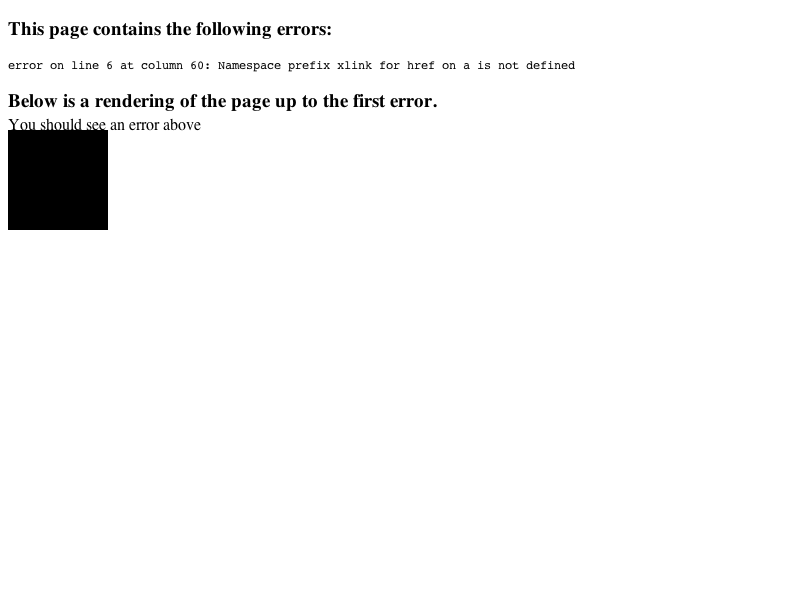
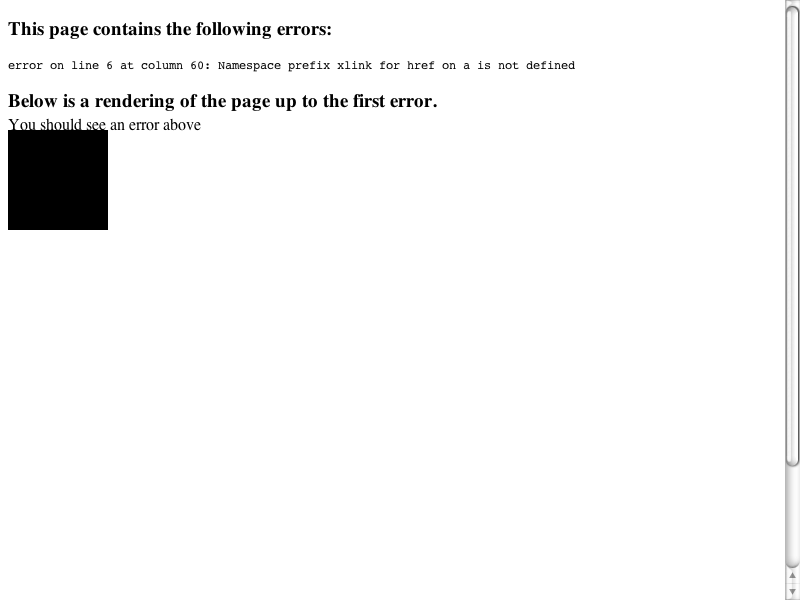
2006-01-26  Eric Seidel  <eseidel@apple.com>
Reviewed by mjs.

        SVG shows up blank in WebKit+SVG
        http://bugzilla.opendarwin.org/show_bug.cgi?id=6620

        * css/svg.css: default to width/height 100% for <svg>

Identifier: 10409@main
git-svn-id: https://svn.webkit.org/repository/webkit/trunk@12389 268f45cc-cd09-0410-ab3c-d52691b4dbfc

Changed region(s): [[0.9688, 0.0, 1.0, 1.0]]

diff --git a/WebCore/css/svg.css b/WebCore/css/svg.css
@@ -37,6 +37,11 @@ svg:root {
     overflow: visible !important
 }
 
+svg {
+    width: 100%;
+    height: 100%;
+}
+
 svg, symbol, marker, pattern, foreignObject {
     overflow: hidden
 }
